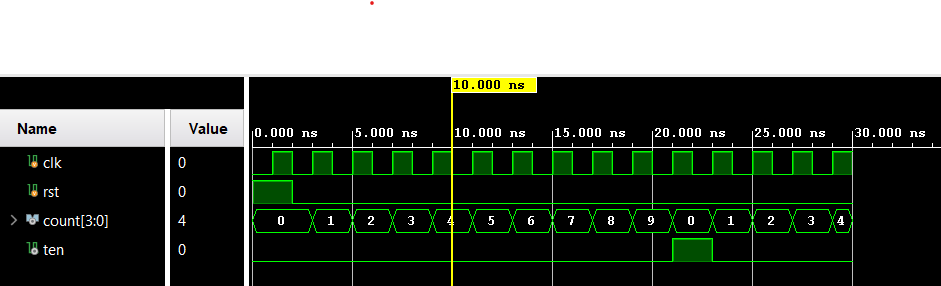
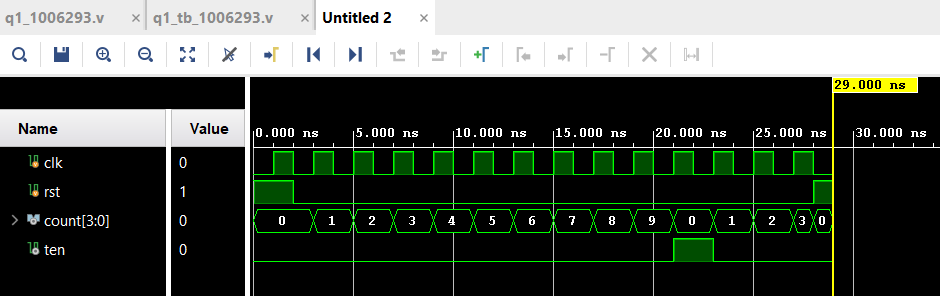
fix: fixed the issues on Decade Counter 2

diff --git a/HW02/HW02-1-DecadeCounter/README.md b/HW02/HW02-1-DecadeCounter/README.md
@@ -22,7 +22,7 @@ reg [3:0]counter  = 4'b0000;
 reg ten_counter = 0;
 assign count = counter;
 assign ten = ten_counter;
-always @(posedge clk)
+always @(posedge rst, posedge clk)
 begin
     if(rst)
     begin
@@ -74,8 +74,10 @@ initial begin
         #1 clk <= 1;
         #1 clk <= 0;
     end
+    #0 rst <= 1;
     #1 clk <= 1;
     #0 $stop;
 end
 
-endmodule```
+endmodule
+```
